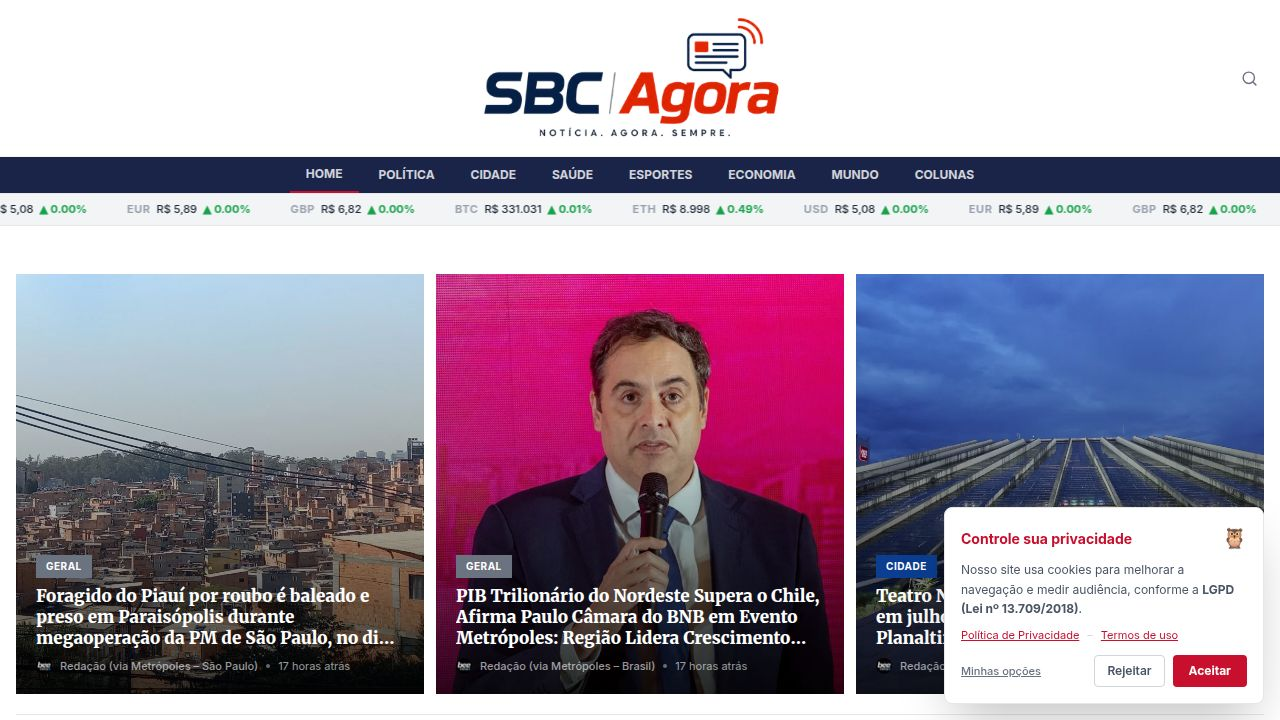
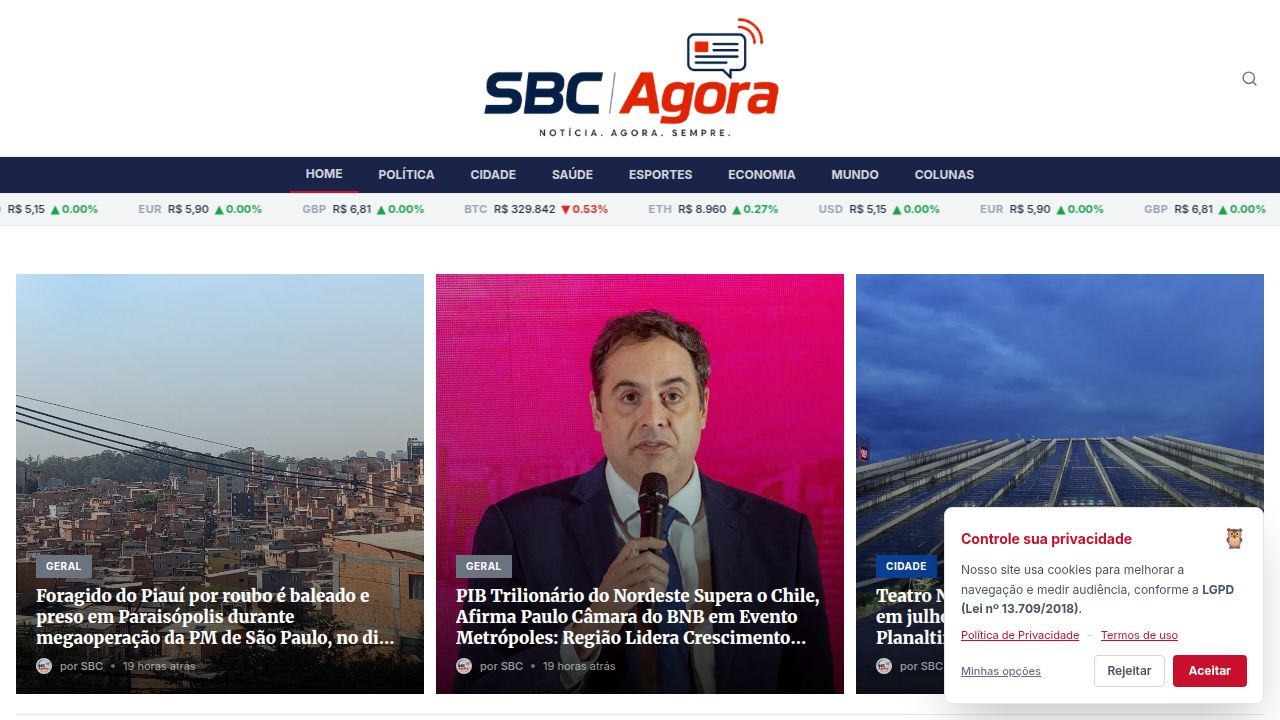
Implement automatic saving and faster updates for home page blocks
Refactor HomeBlocksManager.tsx to use refs for form handling, reduce debounce timers, and implement postMessage for iframe refresh. Update useSite.ts to handle refresh messages and manage subscribers for reactive updates.

Replit-Commit-Author: Agent
Replit-Commit-Session-Id: e5f7e88e-36b3-440f-af02-a56f704d93b5
Replit-Commit-Checkpoint-Type: full_checkpoint
Replit-Commit-Event-Id: aca0d3d8-c02c-4543-bf81-2403624ea80c
Replit-Commit-Screenshot-Url: https://storage.googleapis.com/screenshot-production-us-central1/bedfef87-b8d0-48d7-9c00-68d350de93c1/e5f7e88e-36b3-440f-af02-a56f704d93b5/komt3mU
Replit-Helium-Checkpoint-Created: true

diff --git a/artifacts/brasilia-agora/src/pages/admin/HomeBlocksManager.tsx b/artifacts/brasilia-agora/src/pages/admin/HomeBlocksManager.tsx
@@ -398,9 +398,15 @@ function SettingsPanel({ block, form, saving, onChange, onApply, onDuplicate, on
 
       {/* Actions */}
       <div className="space-y-2 pt-1">
-        <button type="button" onClick={onApply} disabled={saving || !form.name.trim()}
-          className="w-full flex items-center justify-center gap-2 px-4 py-2.5 bg-[#0B2A66] text-white text-sm font-semibold rounded-xl hover:bg-[#0a2255] disabled:opacity-50 transition-colors">
-          {saving ? <><RefreshCw size={13} className="animate-spin" /> Salvando…</> : <><CheckCircle size={13} /> Aplicar alterações</>}
+        {/* Auto-save indicator */}
+        <div className="flex items-center justify-center gap-1.5 py-1 text-[11px] text-slate-400">
+          {saving
+            ? <><RefreshCw size={10} className="animate-spin text-[#0B2A66]" /><span className="text-[#0B2A66] font-medium">Salvando…</span></>
+            : <><CheckCircle size={10} className="text-emerald-500" /><span>Alterações salvas automaticamente</span></>}
+        </div>
+        <button type="button" onClick={onApply}
+          className="w-full flex items-center justify-center gap-2 px-4 py-2.5 bg-[#0B2A66] text-white text-sm font-semibold rounded-xl hover:bg-[#0a2255] transition-colors">
+          <CheckCircle size={13} /> Fechar painel
         </button>
         <div className="grid grid-cols-2 gap-2">
           <button type="button" onClick={onDuplicate}
@@ -447,11 +453,19 @@ export default function HomeBlocksManager() {
   const [history, setHistory]           = useState<HomeBlock[][]>([]);
   const [historyIdx, setHistoryIdx]     = useState(-1);
 
-  const logoInputRef = useRef<HTMLInputElement>(null);
-  const saveTimer    = useRef<ReturnType<typeof setTimeout> | null>(null);
-  const debounceRef  = useRef<ReturnType<typeof setTimeout> | null>(null);
-  const blockRefs    = useRef<Record<string, HTMLDivElement | null>>({});
-  const iframeRef    = useRef<HTMLIFrameElement>(null);
+  const logoInputRef  = useRef<HTMLInputElement>(null);
+  const saveTimer     = useRef<ReturnType<typeof setTimeout> | null>(null);
+  const debounceRef   = useRef<ReturnType<typeof setTimeout> | null>(null);
+  const blockRefs     = useRef<Record<string, HTMLDivElement | null>>({});
+  const iframeRef     = useRef<HTMLIFrameElement>(null);
+  const blocksRef     = useRef<HomeBlock[]>([]);
+  const editingIdRef  = useRef<string | null>(null);
+  const editFormRef   = useRef<BlockForm>(EMPTY_FORM);
+
+  // ── Keep refs in sync with state (fixes stale-closure bugs) ────────────────
+  useEffect(() => { blocksRef.current    = blocks;    }, [blocks]);
+  useEffect(() => { editingIdRef.current = editingId; }, [editingId]);
+  useEffect(() => { editFormRef.current  = editForm;  }, [editForm]);
 
   // ── Load ────────────────────────────────────────────────────────────────────
   useEffect(() => {
@@ -518,7 +532,7 @@ export default function HomeBlocksManager() {
   }
 
   // ── Auto-save (debounced) ───────────────────────────────────────────────────
-  const debounceSave = useCallback((newBlocks: HomeBlock[], delay = 500) => {
+  const debounceSave = useCallback((newBlocks: HomeBlock[], delay = 400) => {
     if (saveTimer.current) clearTimeout(saveTimer.current);
     saveTimer.current = setTimeout(async () => {
       setSaving(true);
@@ -526,7 +540,8 @@ export default function HomeBlocksManager() {
         await adminApi.updateSettings({ homeBlocks: newBlocks.map((b, i) => ({ ...b, order: i })) });
         invalidateSiteCache();
         setSaved(true);
-        setPreviewKey((k) => k + 1);
+        // Refresh iframe via postMessage — no full remount
+        iframeRef.current?.contentWindow?.postMessage({ type: "settings:refresh" }, "*");
         setTimeout(() => setSaved(false), 2000);
       } catch { } finally { setSaving(false); }
     }, delay);
@@ -617,18 +632,20 @@ export default function HomeBlocksManager() {
     iframeRef.current?.contentWindow?.postMessage({ type: "block:select", blockId: block.id }, "*");
   }
 
-  // Live debounced form change
+  // Live debounced form change (uses refs to avoid stale-closure bugs)
   function handleFormChange<K extends keyof BlockForm>(key: K, val: BlockForm[K]) {
-    const nextForm = { ...editForm, [key]: val };
+    const nextForm = { ...editFormRef.current, [key]: val };
     setEditForm(nextForm);
     // Optimistic update name in block list immediately
-    if (key === "name" && editingId) {
-      setBlocks((prev) => prev.map((b) => b.id === editingId ? { ...b, name: val as string } : b));
+    if (key === "name") {
+      const id = editingIdRef.current;
+      if (id) setBlocks((prev) => prev.map((b) => b.id === id ? { ...b, name: val as string } : b));
     }
     if (debounceRef.current) clearTimeout(debounceRef.current);
     debounceRef.current = setTimeout(() => {
-      if (!editingId) return;
-      const updated = blocks.map((b) => b.id === editingId ? {
+      const id = editingIdRef.current;
+      if (!id) return;
+      const updated = blocksRef.current.map((b) => b.id === id ? {
         ...b,
         name: nextForm.name,
         category: nextForm.categories[0] ?? nextForm.category,
@@ -636,28 +653,29 @@ export default function HomeBlocksManager() {
         color: nextForm.color,
         reverse: nextForm.reverse,
       } : b);
-      debounceSave(updated, 800);
-    }, 300);
+      // Update state so the list reflects latest changes immediately
+      setBlocks(updated);
+      debounceSave(updated);
+    }, 200);
   }
 
-  async function applyAndSave(id: string) {
-    const next = blocks.map((b) => b.id === id ? {
+  function applyAndSave(id: string) {
+    // Changes are already auto-saved via handleFormChange debounce.
+    // Just flush any pending debounce, update history and close the panel.
+    if (debounceRef.current) clearTimeout(debounceRef.current);
+    const cur = editFormRef.current;
+    const next = blocksRef.current.map((b) => b.id === id ? {
       ...b,
-      name: editForm.name,
-      category: editForm.categories[0] ?? editForm.category,
-      layout: editForm.layout,
-      color: editForm.color,
-      reverse: editForm.reverse,
+      name: cur.name,
+      category: cur.categories[0] ?? cur.category,
+      layout: cur.layout,
+      color: cur.color,
+      reverse: cur.reverse,
     } : b);
-    setBlocks(next); setEditingId(null);
+    setBlocks(next);
     pushHistory(next);
-    setSaving(true);
-    try {
-      await adminApi.updateSettings({ homeBlocks: next.map((b, i) => ({ ...b, order: i })) });
-      invalidateSiteCache();
-      setSaved(true); setPreviewKey((k) => k + 1);
-      setTimeout(() => setSaved(false), 2000);
-    } catch { } finally { setSaving(false); }
+    setEditingId(null);
+    debounceSave(next, 0);
   }
 
   // ── Add block ───────────────────────────────────────────────────────────────

diff --git a/artifacts/brasilia-agora/src/hooks/useSite.ts b/artifacts/brasilia-agora/src/hooks/useSite.ts
@@ -9,6 +9,7 @@ export interface HomeBlock {
   layout?: "grid" | "featured" | "duplo" | "cultura" | "lista" | "manchete" | "mosaico";
   color?: string;
   custom?: boolean;
+  reverse?: boolean;
 }
 
 export interface MenuItem {
@@ -45,8 +46,6 @@ export interface SiteSettings {
   footerBgColor?: string;
 }
 
-// ─── localStorage persistence ─────────────────────────────────────────────────
-// Keeps last-known settings so the first render matches the saved state.
 const STORAGE_KEY = "bee_site_v1";
 
 function loadFromStorage(): SiteSettings | null {
@@ -60,7 +59,6 @@ function saveToStorage(data: SiteSettings) {
   try {
     localStorage.setItem(STORAGE_KEY, JSON.stringify(data));
   } catch {
-    // Quota exceeded — store layout-critical fields only (no large blobs)
     try {
       const { logoBase64, bylineLogoBase64, ogImageBase64, faviconBase64, adminLogoBase64, ...slim } = data;
       void [logoBase64, bylineLogoBase64, ogImageBase64, faviconBase64, adminLogoBase64];
@@ -69,25 +67,32 @@ function saveToStorage(data: SiteSettings) {
   }
 }
 
-// ─── Singleton module-level cache ─────────────────────────────────────────────
-// Pre-populated from localStorage on module init — eliminates first-render flash.
 let _cache: SiteSettings | null = loadFromStorage();
 let _fetch: Promise<void> | null = null;
+const _subscribers = new Set<(s: SiteSettings) => void>();
 
-/** Refresh settings from the API immediately (call after any admin save). */
+function notifySubscribers() {
+  if (_cache) _subscribers.forEach((cb) => cb(_cache!));
+}
+
+async function doFetch() {
+  const r = await fetch("/api/site");
+  const data = await r.json() as SiteSettings;
+  _cache = data;
+  saveToStorage(data);
+  notifySubscribers();
+}
+
+if (typeof window !== "undefined") {
+  window.addEventListener("message", (e) => {
+    if (e.data?.type === "settings:refresh") {
+      _fetch = doFetch().catch(() => { _fetch = null; });
+    }
+  });
+}
+
 export function invalidateSiteCache() {
-  // Start a background re-fetch so that by the time the user navigates away
-  // from the admin panel, the cache is already up to date — no flash.
-  _fetch = fetch("/api/site")
-    .then((r) => r.json())
-    .then((data: SiteSettings) => {
-      _cache = data;
-      saveToStorage(data);
-    })
-    .catch(() => {
-      _cache = null;
-      _fetch = null;
-    });
+  _fetch = doFetch().catch(() => { _fetch = null; });
 }
 
 export function useSite() {
@@ -95,27 +100,27 @@ export function useSite() {
   const [loading, setLoading] = useState(_cache === null);
 
   useEffect(() => {
-    // Render immediately from cache if available (stale-while-revalidate)
+    const subscriber = (s: SiteSettings) => {
+      setSettings(s);
+      setLoading(false);
+    };
+    _subscribers.add(subscriber);
+
     if (_cache) {
       setSettings(_cache);
       setLoading(false);
     }
 
-    // Always kick off a background refresh to stay in sync
     if (!_fetch) {
-      _fetch = fetch("/api/site")
-        .then((r) => r.json())
-        .then((data: SiteSettings) => {
-          _cache = data;
-          saveToStorage(data);
-        })
-        .catch(() => {});
+      _fetch = doFetch().catch(() => { _fetch = null; });
     }
 
     _fetch.then(() => {
       if (_cache) setSettings(_cache);
       setLoading(false);
     });
+
+    return () => { _subscribers.delete(subscriber); };
   // eslint-disable-next-line react-hooks/exhaustive-deps
   }, []);
 